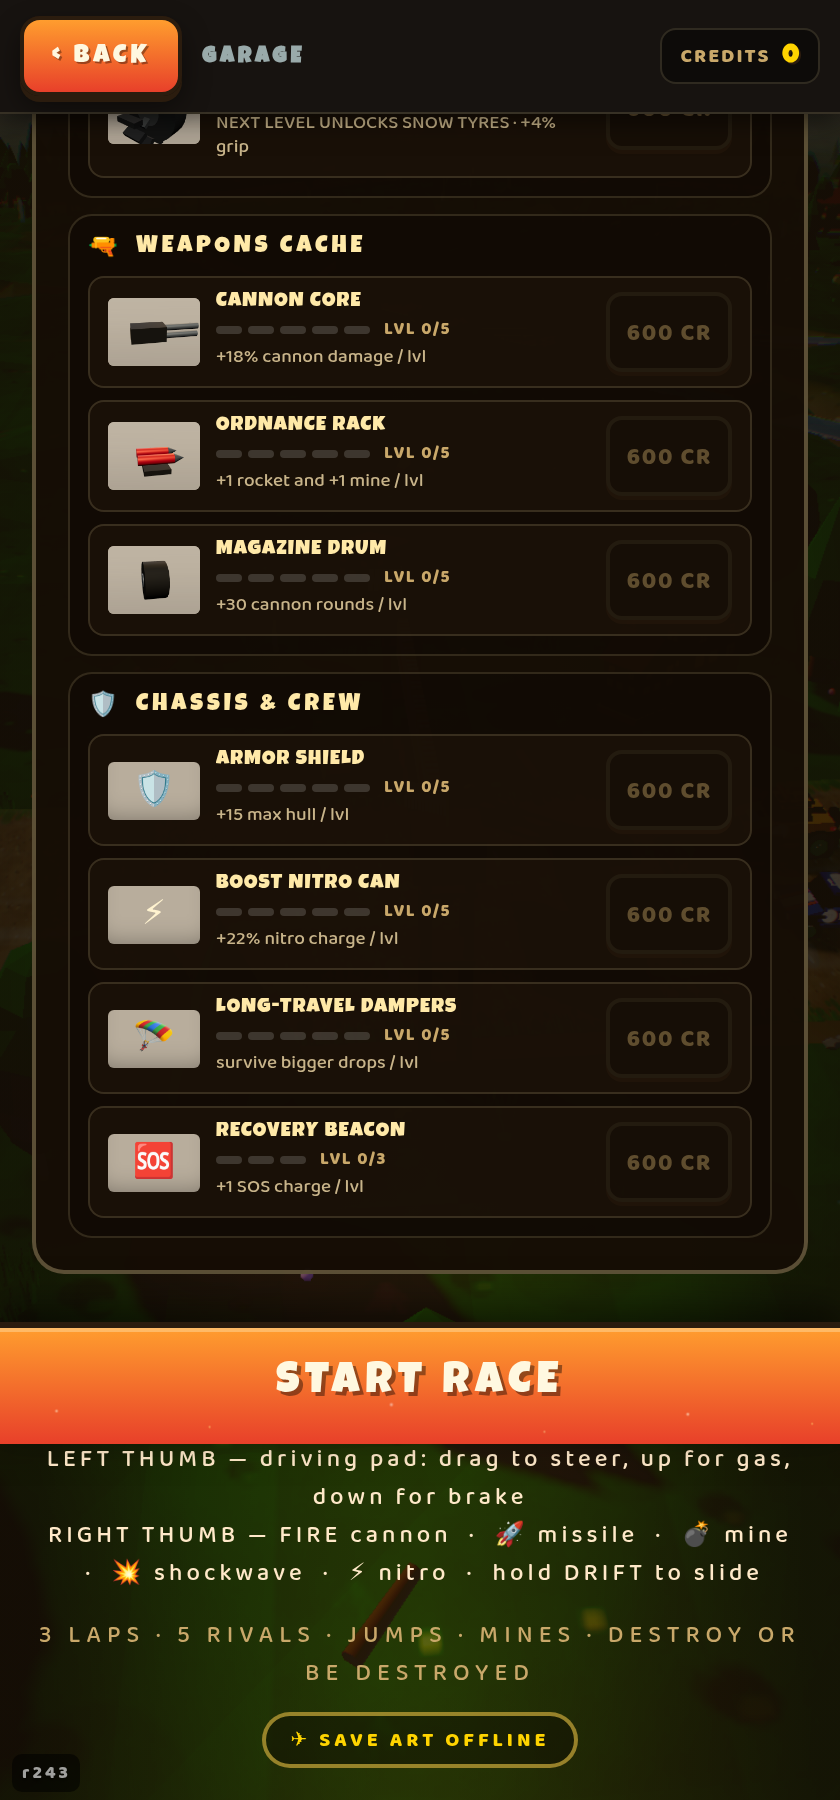
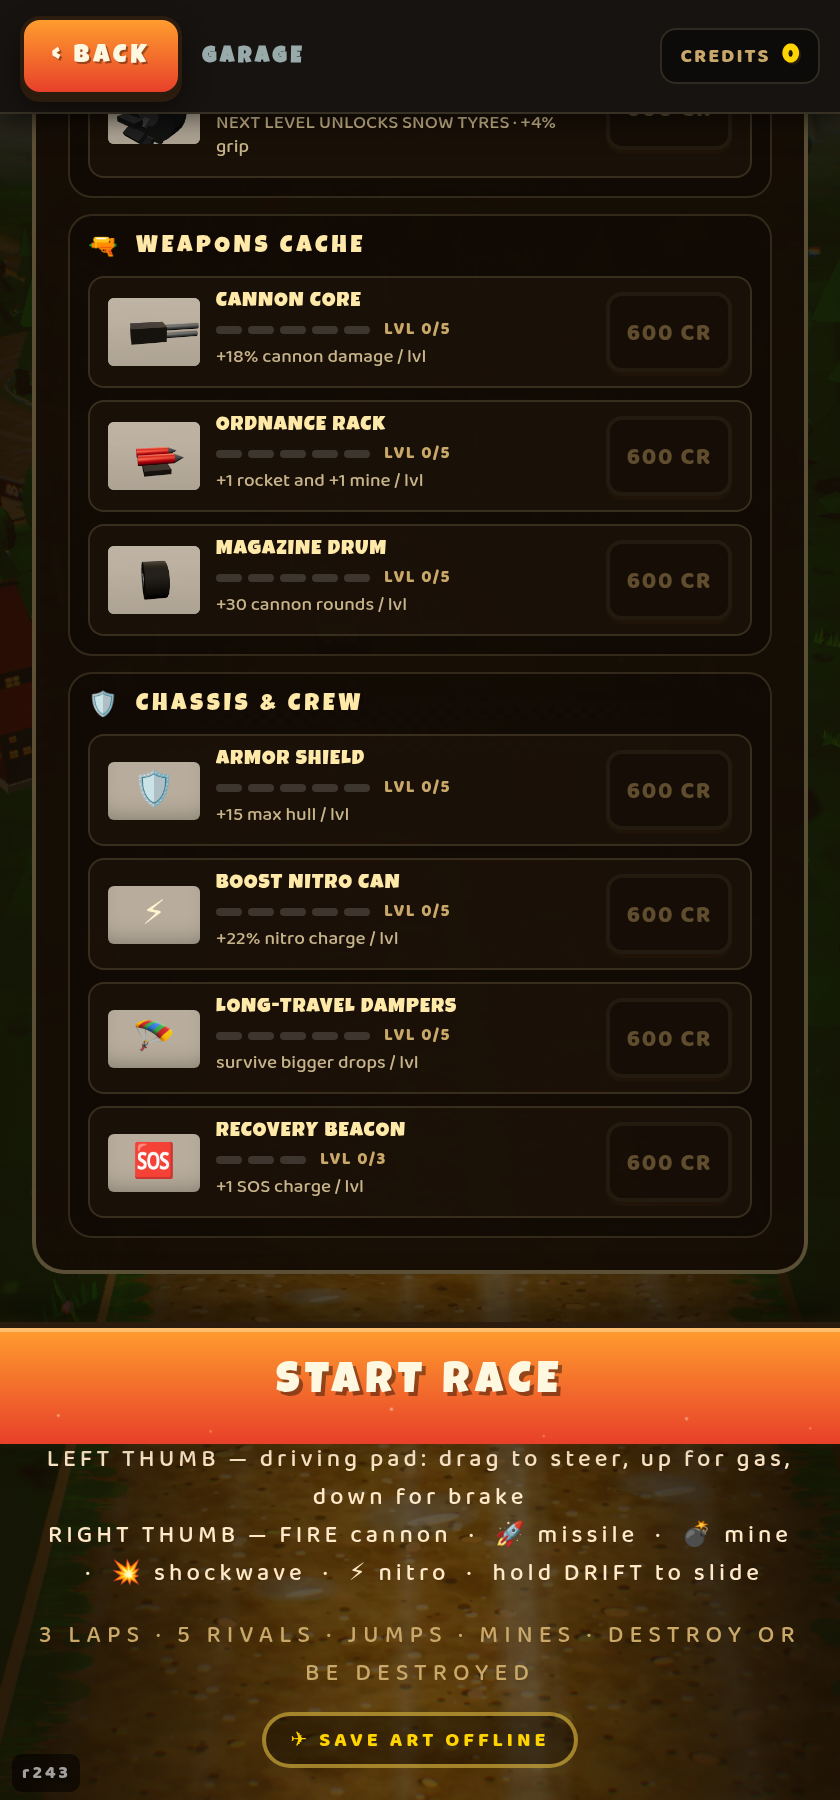
garage: share the diorama between bay and studio; audit every camera's far plane
_diorama() now caches its [geometry, material] pairs on first build and mounts
fresh Mesh wrappers over them for the second scene. The bay and the shelf-card
studio are separate scenes so each needs its own meshes, but the four canvas
textures and ~7k welded triangles behind them are shareable. _studio() also
takes the bay's fog, so a shared material never compiles a second program.

  geometries 96 -> 85, materials 45 -> 34, textures 12 -> 9,
  triangles 13113 -> 7196, second diorama build 64.5 ms -> 0.1 ms, 56.7 -> 54.4 MB

Adds tools-scratch/farplane.mjs, which measures every camera's near/far against
the bounding sphere of what its scene draws, and tools-scratch/diocost.mjs,
which is the sharing gate above. farplane exempts frustumCulled === false: the
particle pool parks dead particles at y -9999 and draws unconditionally, so its
bounds sit ten thousand units out and mean nothing. With that, all cameras clean.

diff --git a/src/main.js b/src/main.js
@@ -5038,6 +5038,21 @@ class Game {
    *  behind the same car in two places on one screen.
    */
   _diorama() {
+    // BUILT ONCE, MOUNTED TWICE. The bay and the studio are separate scenes
+    // and a Mesh belongs to one parent, but the GEOMETRY and the MATERIALS
+    // behind it are the expensive half — four canvas textures and about seven
+    // thousand welded triangles — and those are shared. Without this the
+    // garage pays for two identical forests.
+    if (this.__dioParts) {
+      const g2 = new THREE.Group();
+      for (const [geo, mat] of this.__dioParts) {
+        const m = new THREE.Mesh(geo, mat);
+        m.receiveShadow = mat.__diorRecv !== false;
+        m.renderOrder = mat.__diorOrder ?? 0;
+        g2.add(m);
+      }
+      return g2;
+    }
     const F = { trunk: 0x6b4423, low: 0x2c6e2a, top: 0x3c8a34,
       grass: 0x4f8a35, dirt: 0x9c7a48, rut: 0x86663a, rock: 0x8d8578, bush: 0x2f7a30 };
     const g = new THREE.Group();
@@ -5245,6 +5260,14 @@ class Game {
       m.receiveShadow = true;
       g.add(m);
     }
+    // remember what was built, so the second scene mounts the same parts
+    this.__dioParts = [];
+    g.traverse((o) => {
+      if (!o.isMesh) return;
+      o.material.__diorRecv = o.receiveShadow;
+      o.material.__diorOrder = o.renderOrder;
+      this.__dioParts.push([o.geometry, o.material]);
+    });
     return g;
   }
 
@@ -5331,6 +5354,10 @@ class Game {
       const forest = this._diorama();
       forest.visible = false;
       scene.add(forest);
+      // THE SAME AIR AS THE BAY. Not only for the look — a material shared
+      // between a fogged scene and an unfogged one compiles a second program
+      // and swaps between them every time the other scene draws it.
+      scene.fog = new THREE.Fog(0xd2e2cc, 46, 185);
       st = this.__studio = { r, scene, sun, cam: null, sweep, contact, forest };
     }
     st.r.setSize(w, h);

diff --git a/HANDOVER.md b/HANDOVER.md
@@ -2937,3 +2937,40 @@ Far 600 on both stage and studio cameras: transparent 9.6% → **0**.
 
 ASK WHETHER THE CAMERA CAN SEE A THING BEFORE REDESIGNING IT. Two backdrops
 were rebuilt to fix a hole that neither of them was ever being drawn into.
+
+## r263 — AUDIT EVERY CAMERA, THEN BUILD THE FOREST ONCE
+r262 ended on a rule: ask whether the camera can see a thing before redesigning
+it. `farplane.mjs` turns that rule into a probe. It walks every camera in the
+running game — race, stage, studio — and measures each one's near/far against
+the bounding sphere of everything its scene actually draws, so a clipped
+backdrop is a line of output instead of a round of guesswork.
+
+The first run flagged the race camera: near 0.5, far 3200, against something at
+**10 034**. It is not a bug. `src/particles.js:147` parks dead particles at
+`y = -9999` and sets `frustumCulled = false`, so the pool draws unconditionally
+and its bounding sphere sits ten thousand units out and means nothing. That
+flag is now the probe's exemption: an object that opts out of culling has opted
+out of this audit too. Stars checked by hand at r 2850 (`src/track.js:18837`),
+inside far 3200. With the exemption in, every camera comes back clean.
+
+### BUILT ONCE, MOUNTED TWICE
+The bay and the shelf-card studio are separate scenes, and a `Mesh` belongs to
+one parent, so each needed its own forest — and was building one. But the mesh
+is the cheap half. The GEOMETRY and the MATERIALS behind it are four canvas
+textures and about seven thousand welded triangles, and those are shareable.
+`_diorama()` now caches `[geometry, material]` pairs on first build and mounts
+fresh `Mesh` wrappers over them the second time; `_studio()` was given the bay's
+fog, because a material compiles a second shader program when the scene fog
+under it differs.
+
+`diocost.mjs`, before/after by `git stash`:
+
+```
+BEFORE  geometries 96  materials 45  textures 12  triangles 13113  2nd diorama 64.5 ms  mem 56.7 MB
+AFTER   geometries 85  materials 34  textures  9  triangles  7196  2nd diorama  0.1 ms  mem 54.4 MB
+```
+
+The second forest costs nothing now. Gates held: `pageerr.mjs` `game? true`,
+`bayblack.mjs` transparent 0% / mean luma 122, `boot.mjs` PASS 4/4, and the
+garage screenshots are pixel-identical — cars on the trail in the shelf cards
+and in the build bay, same as before.

diff --git a/tools-scratch/README.md b/tools-scratch/README.md
@@ -180,6 +180,17 @@ real time to get right and the next session should not rebuild them.
                 beside them. It caught 150 grass tufts costing 1800 triangles —
                 22% of the diorama's geometry — for 1.4% of the frame, because
                 at that camera distance a 0.75 u blade is two pixels.
+- `farplane.mjs` every camera's near/far measured against the bounding sphere
+                of everything its scene draws — race, stage and studio in one
+                pass. Objects with `frustumCulled === false` are EXEMPT: the
+                particle pool parks its dead at y -9999 and draws
+                unconditionally, so its bounds sit ten thousand units out and
+                mean nothing. Run it before redesigning anything that looks
+                too small; twice now a backdrop was merely being clipped.
+- `diocost.mjs` what the garage diorama costs: geometries, materials, textures,
+                triangles, JS heap, and the wall-clock of building a SECOND
+                one. That last number is the sharing gate — 64.5 ms means each
+                scene builds its own forest, 0.1 ms means they share.
 - `bayblack.mjs` how much of the bay canvas is black, in a 4x4 grid so the
                 answer says WHICH part is unlit, with the scene graph beside
                 it. It is what showed the bay was already fine and sent the
